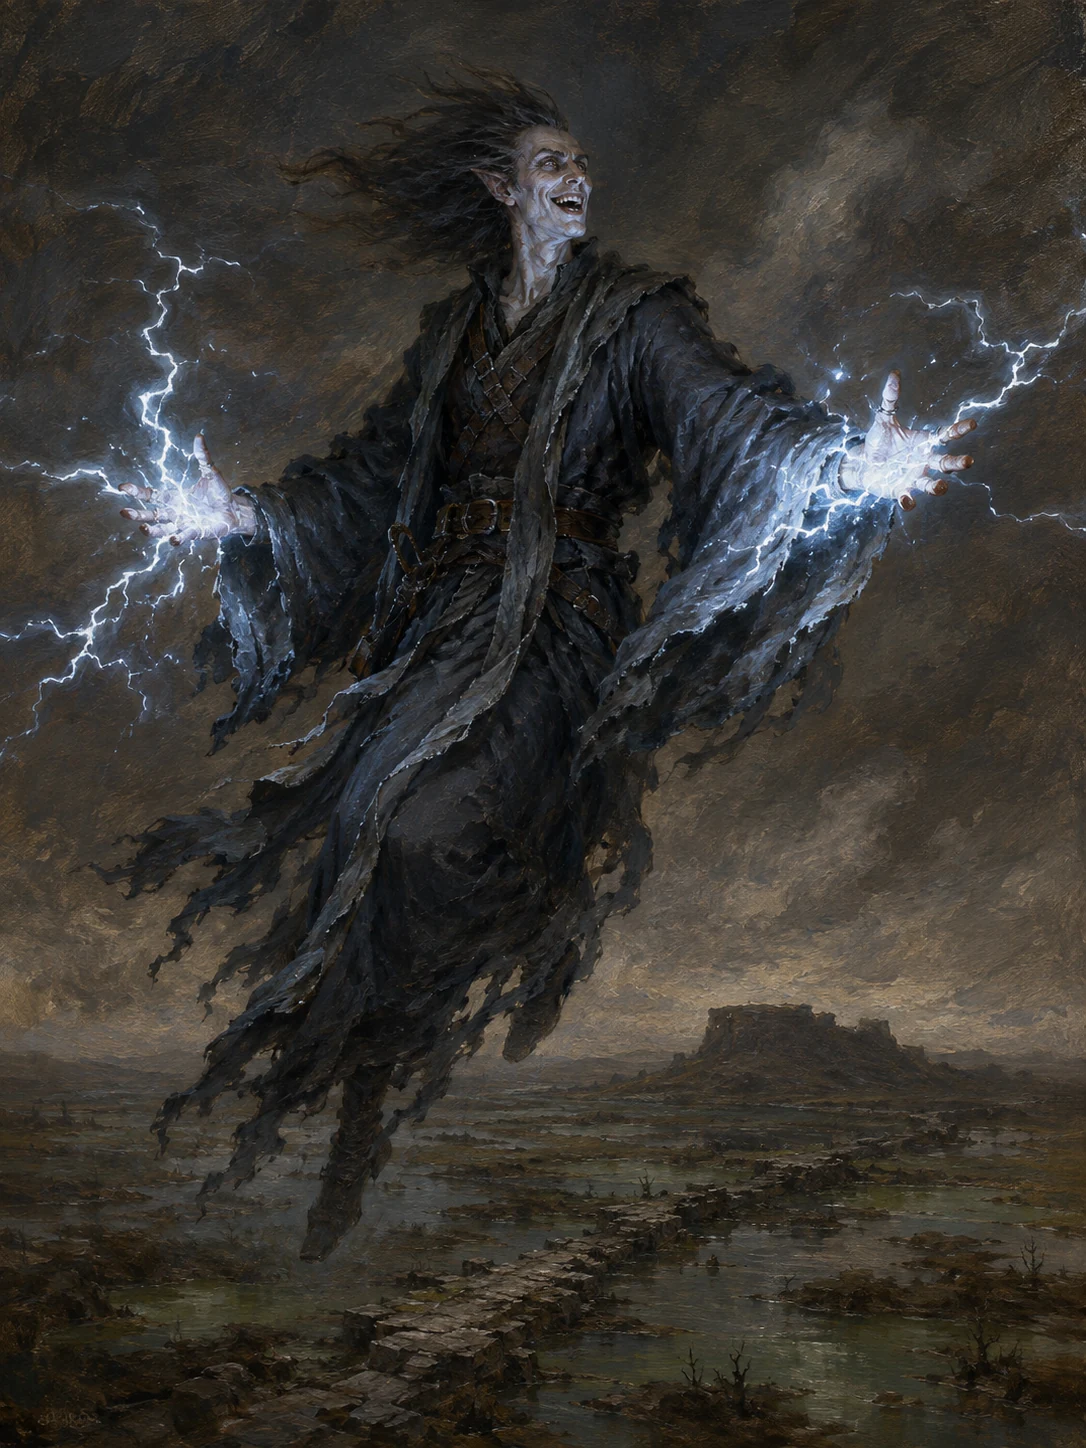
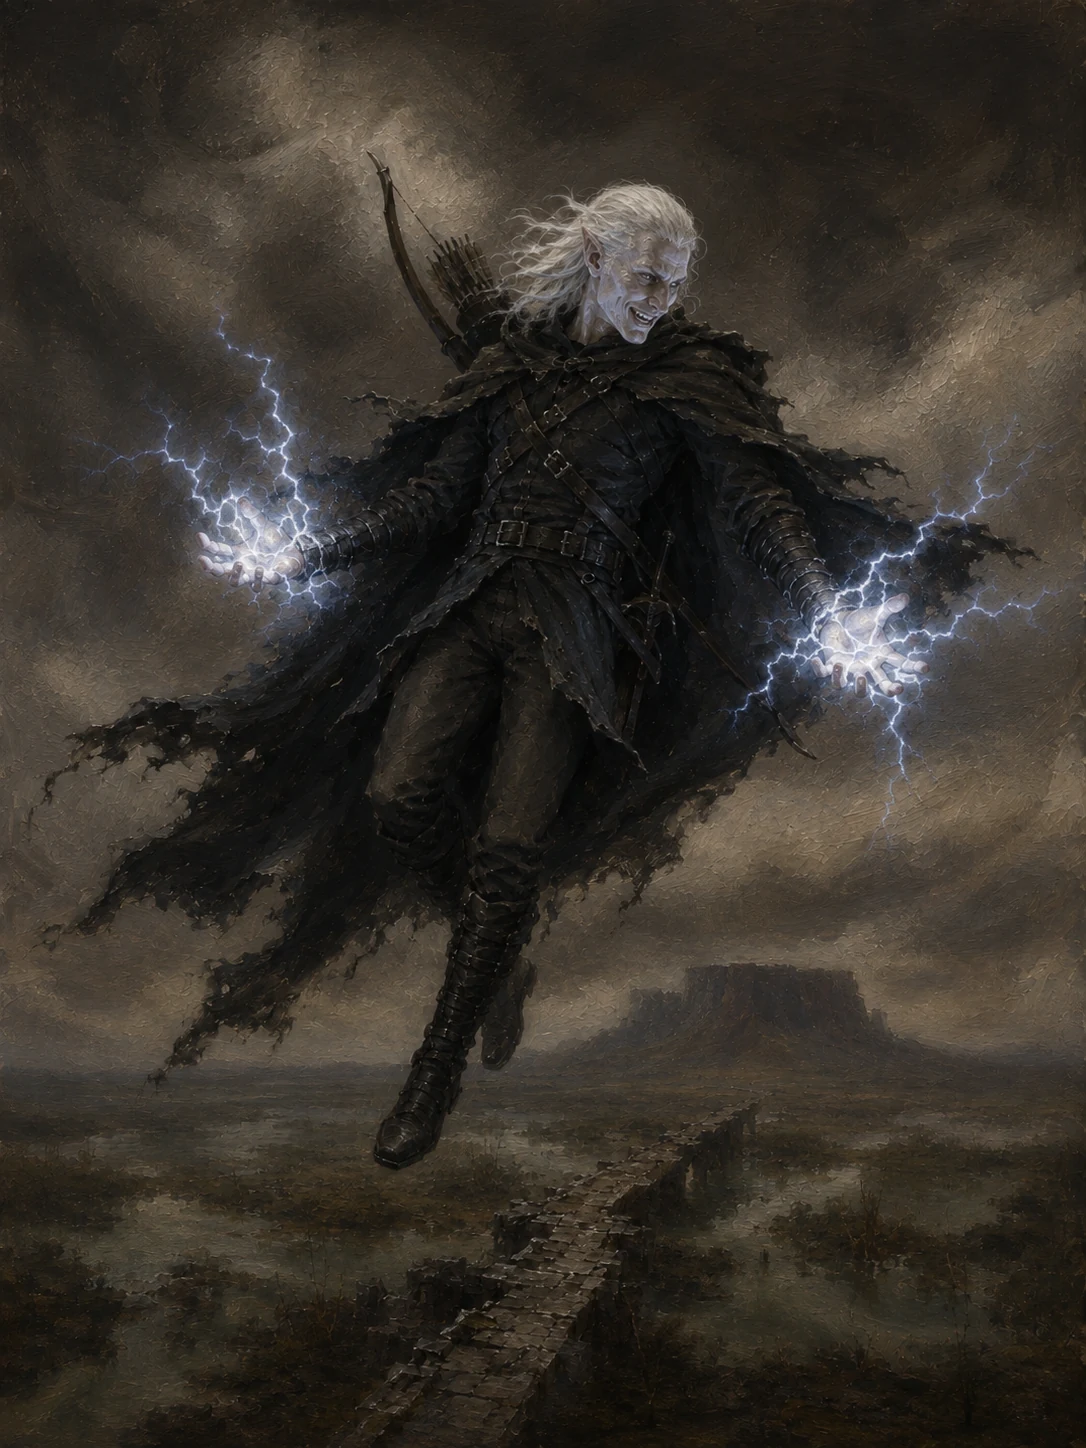
Correct Aeloth Riven to his established likeness
The Swarm's sorcerer was already painted, months before he had a name --
he is the pale elf Rabiah's detect scrying caught in caught-peeking.webp.
The first registry portrait contradicted it on hair, skin and dress, so
it is re-rolled to match: platinum-white, chalk-skinned, in black
leathers with a longbow at his back.

Also records two process lessons in CANON.md: search existing art by
ROLE before inventing a face, and never name a taboo thing in an Avoid
line -- the classifier reads negatives as subject matter and refuses.

diff --git a/characters/CANON.md b/characters/CANON.md
@@ -74,7 +74,7 @@ kit guide disagree, the kit guide wins.
 | **Nisha Riles** | [`nisha-riles.webp`](nisha-riles.webp) | The Red Swarm | Half-elf woman, late twenties; the Swarm's lure as much as its bard. Slim and graceful, about five foot six. **Sleek straight BLACK hair**, glossy as ink, gathered over one shoulder. **AMBER-BROWN eyes.** Warm olive skin, unblemished. **Ears SHORT and only slightly tapered** — a half-elf, never a full elf. A charcoal wool cloak thrown back over a fitted **dark bottle-green doublet** and studded leather, high boots, a merchant's satchel on a strap across the chest, and a slender **rapier** at the hip. **HER MANDOLIN IS HER SIGNATURE AND IS ALWAYS PRESENT** — small, **ROUND-BACKED and BOWL-BODIED** with a short neck, a deep teardrop belly and pearl inlay at the soundhole; **never a flat-backed lute.** **The likeness anchor that matters most is the double reading:** a warm, open, genuinely charming smile on the mouth, and **eyes that do not match it** — cool, half-lidded, faintly amused, appraising. Both are true at once; never render her as an obvious villain, and never as guileless. ⚠ **Do not let her blur with [Mira Thistledance](mira-thistledance.webp)** — both are half-elf bards with a stringed instrument. The separators, which must be stated in any frame holding either: **Nisha = BLACK hair, AMBER eyes, a bowl-backed MANDOLIN. Mira = BROWN hair with silver chains, GREEN eyes, a LUTE.** *Avoid:* `red or copper hair, brown hair, green eyes, a lute, a flat-backed instrument, long sharply-pointed elf ears, a sneer, a scowl, a sinister glare`. |
 | **Vani Abraya** | [`vani-abraya.webp`](vani-abraya.webp) | The Red Swarm | Elf woman; the Plagued One's tracker, and the archer built feat for feat to kill **Lupenor Celest**. About five foot nine — **lean, hard and rangy**, weathered sun-darkened skin, hollows under the cheekbones. **Long sharply-tapered elf ears.** **Dark tangled hair pulled back roughly and stuck through with a bone pin.** Pale grey-green eyes; **a thin old scar across one cheekbone.** A battered dark steel **chain shirt** over ragged brown leathers, **wrapped forearms**, mud to the knee, a quiver at the hip. **Both her weapons are always on her:** a tall **composite longbow** and a long slender **elven curve blade**. **Bearing: predatory, feral and half-starved** — she abandoned civilization decades ago and it shows. **Never noble, never a graceful or ethereal high elf.** *(Archery note: the registry portrait deliberately shows the bow slack and unnocked. Any drawn-bow image of her must follow the archery rules in [`../bible/04-visual-style-guide.md`](../bible/04-visual-style-guide.md) — one continuous string, a full-length nocked arrow, the three-fingertip draw.)* |
 | **Bidha Kesh** | [`bidha-kesh.webp`](bidha-kesh.webp) | The Red Swarm | Human woman in her forties; the Plagued One's personal shield. About five foot seven and **immensely solid, heavy through the shoulders, built like a door.** Dark hair **cropped brutally short.** A broad, plain, weathered face; small rounded human ears; and **deep old scars — three ragged parallel claw scars dragged from the left temple across the cheek to the jaw, and a puckered burn along the same side of the neck.** **BATTERED FULL PLATE in dull, dark, unpolished blackened steel** — deeply dented, mud-caked, fully covering (gorget, pauldrons, vambraces, faulds, armoured legs) and **entirely plain: NO heraldry, NO holy symbol, NO gold, NO ornament of any kind.** Heavy **spiked gauntlets**, a small round **buckler**, a plain longsword. **Never a helmet** — the scarred face is the likeness. ⚠ **She is the deliberate visual opposite of the crusader women** — never polished silver-white plate, never gold filigree, never a device on the breast; that register belongs to [Iomedae](iomedae.webp), [Elara](elara-dawnstrider.webp) and [Kamilo](kamilo-dann.webp), and Bidha must not drift toward it. **Bearing: immovable, exhausted, absolutely sworn** — jaw set, mouth a hard flat line, eyes steady, heavy-lidded and unafraid, weight settled as though she has decided to die exactly where she stands. |
-| **Aeloth Riven** | [`aeloth-riven.webp`](aeloth-riven.webp) | The Red Swarm | Elf man; storm sorcerer of the elemental-air bloodline, and the Swarm's artillery. About six feet, **tall and very thin, sharp-boned and hollow-cheeked.** **Long sharply-tapered elf ears.** **Long dark ash-brown hair** blown straight back and upward by the wind of his own flight. Bloodless pale skin; **ice-blue eyes with a faint cold light behind them.** Layered flowing robes of **dark slate-grey and storm-blue** over a plain leather harness, the hems and sleeves streaming and ragged; silver rings on both hands; **no armour, no weapon, no holy symbol.** **HE IS NORMALLY AIRBORNE** — he works from sixty feet up — with **branching arcs of white-blue lightning crawling over his open hands and jumping between his palms.** That lightning is the single luminous accent in any frame he is in, and it lights the underside of his jaw; **the picture must never read blue overall.** **Bearing: open, gleeful, ugly delight** — teeth bared in a wide grin, eyes bright, brows raised, head thrown slightly back. He is the one member of the Swarm plainly enjoying himself. ⚠ **Never blond or golden-haired, never a red scarf, never a circlet** — those belong to [Varic Sarian](varic.webp) and the two elf-blooded men must not converge. **When he is aloft, pin the scale explicitly**: the camera is level with him in the air, and he is an ordinary-sized elf man, never a colossus — see the airborne-figure note in the style guide. |
+| **Aeloth Riven** | [`aeloth-riven.webp`](aeloth-riven.webp) | The Red Swarm | Elf man; storm sorcerer of the elemental-air bloodline, and the Swarm's artillery. **⚠ HIS LOOK WAS ESTABLISHED BEFORE HE HAD A NAME** — he is the pale elf **Rabiah**'s *detect scrying* caught watching her from a cave, in [`../images/caught-peeking.webp`](../images/caught-peeking.webp) (Book III, *Lies, Spies, and Prying Eyes*), with the rest of the Swarm moving in the gloom behind him. **That image is the authority on his face; attach it as a reference and follow it.** About six feet, lean and sharp-boned, looking about thirty; a narrow face, high cheekbones, a thin mouth. **BLOODLESS CHALK-WHITE skin, paler than any human.** **Straight, fine, PLATINUM-WHITE hair** — nearly pure white, shoulder-length, swept back off a high forehead. **NOT blond, NOT golden, NOT dark.** **PALE ICE-BLUE eyes under dark level brows** — the dark brows against all that whiteness are the striking thing. **Long sharply-tapered elf ears.** **Dress: dark charcoal and black travelling LEATHERS** — layered jerkin, buckled strap harness across the chest, wrapped forearms — under a **heavy ragged dark cloak**; **a plain longbow and a quiver slung diagonally across his back** (he carries one and rarely uses it). **No plate, no robes, no holy symbol, no jewellery.** **HE IS NORMALLY AIRBORNE** — he works from sixty feet up — with **branching arcs of white-blue lightning crawling over his open hands and jumping between his palms.** That lightning is the single luminous accent in any frame he is in, and it lights the underside of his jaw; **the picture must never read blue overall.** **Bearing: open, gleeful, ugly delight** — teeth bared in a wide grin, eyes bright, brows raised, head thrown slightly back. He is the one member of the Swarm plainly enjoying himself. ⚠ **He and [Varic Sarian](varic.webp) are both fair-haired elf-blooded men and must not converge**: Varic's hair is **warm yellow-gold** and he wears a **deep-red scarf** and **gold-and-steel filigree plate**; Aeloth's is **cold platinum-white** over **chalk-white skin and black leathers**, and he never wears a scarf, a circlet, or armour. **When he is aloft, pin the scale explicitly**: the camera is level with him in the air, and he is an ordinary-sized elf man, never a colossus — see the airborne-figure note in the style guide. |
 | **Halka Deepmark** | [`halka-deepmark.webp`](halka-deepmark.webp) | The Red Swarm | Dwarf woman; the Swarm's advance scout and sniper, and the Plagued One's first recruit. **SHE MUST READ UNMISTAKABLY AS A DWARF AND NEVER AS A SHORT HUMAN** — about four foot six standing, and **nearly twice as broad through the chest as a human of that height**: a thick barrel torso, a short thick neck, a large broad heavy skull, a **pronounced heavy brow ridge**, a **wide blunt flattened nose**, and **big, disproportionately large, broad hands** with thick knuckles and short blunt fingers. **NO BEARD — she is clean-jawed.** **Iron-grey hair scraped back into tight practical braids** close to the skull; deep-set dark eyes under that heavy brow; weathered, deeply lined, wind-burned skin. A mud-caked dark **mithral chain shirt** under a hooded cloak of drab brown and dead-grass grey, **wrapped forearms**, a **short sword sheathed at her back**, a **light crossbow**, and a quiver of bolts — **some pale silver-headed, some dull grey cold iron.** **Bearing: total, patient, unhurried concentration** — mouth a flat hard line, eyes narrow and unblinking, brows drawn low, absolutely still. Never talkative, never animated, never comic. |
 
 ## Known drift — state the negatives explicitly in every prompt
@@ -90,6 +90,8 @@ Image models fall into the same traps repeatedly. Descriptions here are **prescr
 - **Radiance is a SWORD, not a shield.** The relic ***Radiance*** is Harlock's intelligent golden longsword; his shield is an unnamed piece bearing Iomedae's sunburst (a wooden one in early Book I). Prompts kept turning the "blazing star" into a named shield in his hand. Say **"an intelligent golden longsword"** for the relic, and — in any Book I scene — describe the blade as **dimmed, dull and giving off no light** (it does not glow until it awakens). Put `glowing sword, blazing shield` in the Avoid line for early-Book-I scenes.
 - **Iomedae's device is a sword before a sun — Sarenrae's is a bare sunburst.** Left to itself the model gives every holy symbol in the frame the same generic starburst, and Harlock and Varic stop being distinguishable at a glance. **Iomedae: a vertical sword, point down, set in front of a blazing sun.** Spell out the sword every time. **This is the goddess's symbol, not one man's** — it belongs to **every** Iomedaean and every Iomedaean object: Harlock's breastplate and shield, **Irabeth's** breastplate and pauldrons, the Eagle Watch's banners and shields, the altars and devices of her temples. **Sarenrae: the plain starburst / stylized sun, no sword** — correct for Varic, and it stays generic. Put `a bare starburst with no sword` in the Avoid line of any scene with an Iomedaean in it. *(Legacy drift, decided and closed: the pre-existing Book I art and Irabeth's own portrait show a bare sunburst. Those stand. Everything new carries the sword.)*
 - **The model reaches for a CHRISTIAN CROSS whenever a scene smells of crusaders, tombs or ritual — and Golarion has none.** This is not the same drift as the bare-starburst note above: it invents a real-world religious symbol out of nothing, and it does it unprompted. *(Book III Ch. III, Aug 2026: within one session a sacrificial cultist came back wearing a point-down sword-cross pendant, and a crusader ghost came back in a white surcoat bearing a plain Latin cross.)* Any figure who is a **crusader, paladin, priest, tomb, banner or surcoat** needs its device named explicitly — **Iomedae's sword-point-down-before-a-sun**, **Sarenrae's bare sunburst**, **Shelyn's songbird** — and any figure who should carry **no** device needs that said too (*"nothing at his chest: no pendant, no medallion, no chain, no holy symbol"*). Put `a cross, a crucifix, a Latin cross, a cross on a surcoat or tabard, a Christian symbol` in the Avoid line of **every** prompt containing armoured religious figures, whether holy or profane. Silence is what produces the cross.
+- **SEARCH THE EXISTING ART BEFORE YOU INVENT A FACE. A character can already be illustrated under a description instead of a name.** *(Matt, Aug 2026.)* **Aeloth Riven** was given a fresh registry portrait — dark ash-brown hair, flowing slate robes — and only afterwards did Matt point out that the Swarm's sorcerer had been painted months earlier as *"a pale elf, a bow slung at his back"* in [`../images/caught-peeking.webp`](../images/caught-peeking.webp), the scrying-watcher scene. The established figure is **platinum-white haired, chalk-skinned and dressed in black leathers**, which the new portrait contradicted on every point, and it had to be re-rolled. **Before writing any registry prompt, grep the chapters and `images/` for the character's role and their scene** — "the sorcerer", "the watcher", "the archer" — not just their name, because the name may be newer than the art.
+- **The `Avoid:` line can get a wholly innocuous prompt REFUSED, and the failure looks like a server error.** The children rule above is a special case of something broader: **the classifier reads your negatives as subject matter.** *(Aug 2026, the Tree of Woe: three consecutive refusals — reported only as "Something went wrong. Please try again." with no image — on a picture of a dead tree with birds in it. The trigger was not the scene at all but the Avoid line, which carried `anything hanging from the branches`, `a crucifix`, `close-up gore, blood spatter, open wounds`. Deleting those clauses and changing nothing else rendered it first try.)* **Never name a violent or taboo thing in `Avoid:` in order to exclude it** — you are putting it in the prompt. Exclude it by *not describing it* and by composing it out of frame. Keep `Avoid:` to craft faults (medium, lighting, anatomy, style) and benign continuity. If a prompt is refused with no explanation, **strip the Avoid line to the standard art negatives first**, before you start rewriting the scene.
 - **A "worm that walks" comes back as a grim reaper unless you fight it.** Say *swarm*, *scythe* and *robed figure* in one prompt and the model reaches straight for the stock Death: a black hooded robe, a skull face, two glowing points in the shadow of the hood. **The Plagued One is the opposite of that on every count** — her robes are **dirty off-white and bone** with the **hood thrown back**, and her head is **not a skull but a woman's head packed out of live locusts, with no face in it at all.** Describe the insect body as *insects crawling over other insects*, name the bone-white robe as the brightest thing in the frame, and put `a skull, a skeleton, a lich, a grim reaper, a black robe, a dark hood with glowing eyes in it` in the Avoid line. The same care applies to her hands: left unsaid they render as ordinary hands holding a haft, when they should be **fists made of vermin**.
 - **Verify against the portrait, not your memory of it.** Both errors above originated in this file — an anchor written from a hazy recollection propagated straight into the art. Re-open the PNG before you write or trust a row.
 - **Never record a drift note from a comparison you did not actually make.** A whole entry in this section was once written claiming that asking for a more revealing costume also zoomed the framing and hollowed the face. Neither had happened: the two renders had been judged against a remembered version of an image that had never been opened, and when all of them were finally viewed side by side the face and framing were identical. **Open every image in the comparison, then write the note.** A fabricated finding is worse than no finding — it hardens into a rule, and every later prompt pays to prevent a problem that does not exist.
